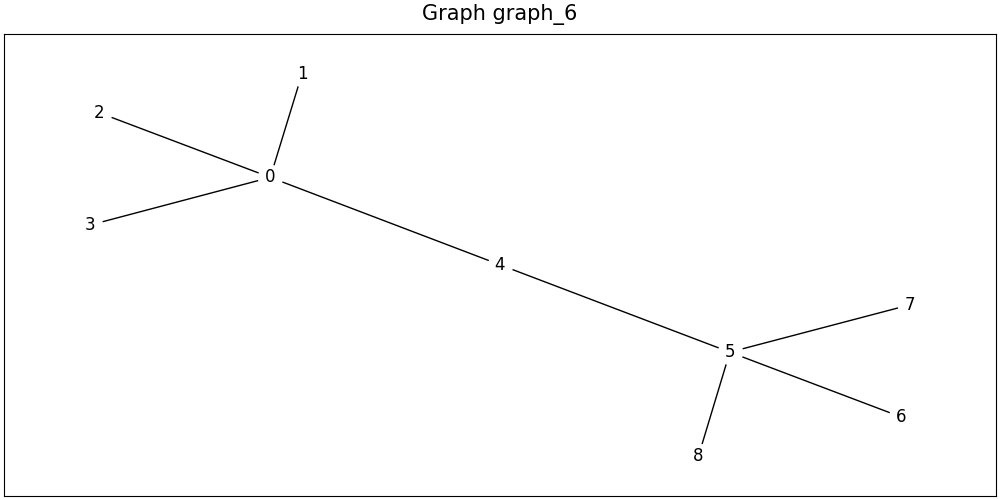
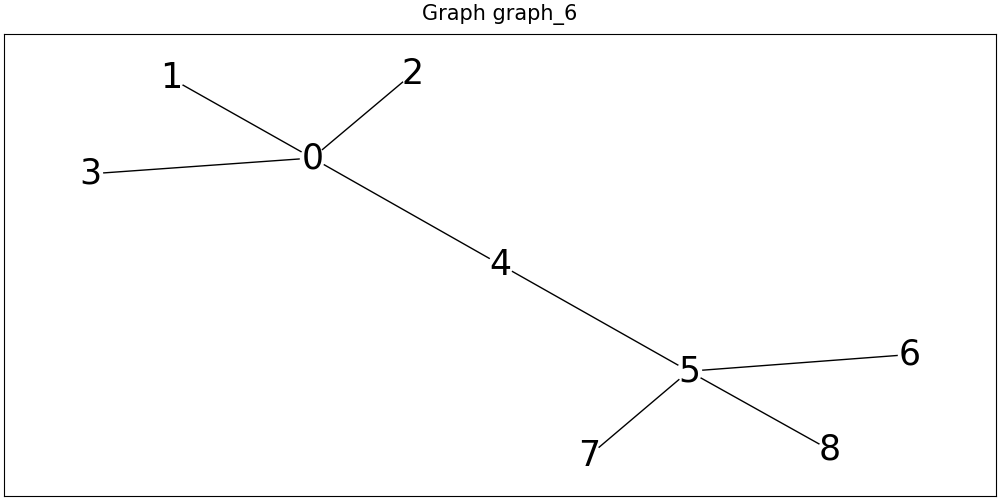
updates

diff --git a/cvf-analysis/plot_graphs.py b/cvf-analysis/plot_graphs.py
@@ -22,9 +22,9 @@ for gname in graph_names:
     fig = plt.figure(figsize=(10, 5), constrained_layout=True)
     if planar:
         pos = nx.planar_layout(G)
-        nx.draw_networkx(G, pos=pos, node_color="white", ax=fig.add_subplot())
+        nx.draw_networkx(G, pos=pos, node_color="white", ax=fig.add_subplot(), font_size=25)
     else:
-        nx.draw_networkx(G, node_color="white", ax=fig.add_subplot())
+        nx.draw_networkx(G, node_color="white", ax=fig.add_subplot(), font_size=25)
 
     fig.suptitle(f"Graph {gname}", fontsize=fontsize)
     fig.savefig(f"graph_images/{gname}.png")
